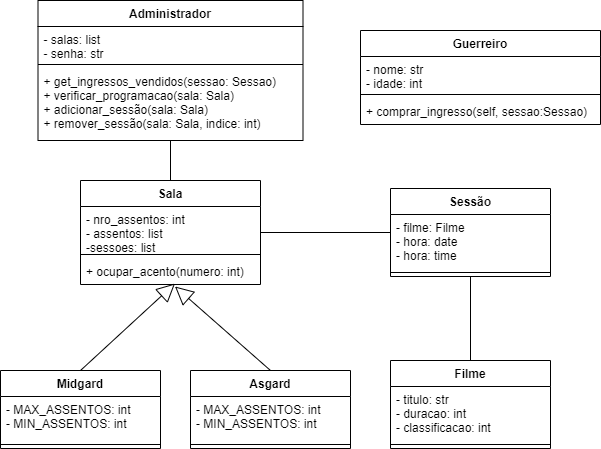
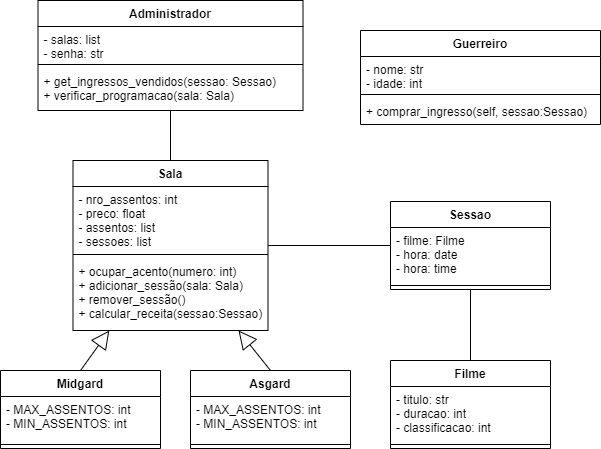
Métodos setter nas classes filhas

diff --git a/Sala.py b/Sala.py
@@ -4,11 +4,12 @@ from Filme import Filme
 class Sala():
     MAX_ASSENTOS = 120
     MIN_ASSENTOS = 15
-    def _init_(self, nro_assentos):
+    def _init_(self, nro_assentos, preco):
         #self._tipo(tipo)
         self._nro_assentos = nro_assentos
-        self.assentos = range(self.nro_assentos)
-        self.sessoes = []
+        self._assentos = range(self.nro_assentos)
+        self._sessoes = []
+        self._preco = preco
         
     '''        
     @property
@@ -33,9 +34,18 @@ class Sala():
         else:
             del self 
         
-        
+    @property 
+    def preco(self):
+        return self._preco
+    
+    @preco.setter
+    def set_preco(self, valor):
+        self._preco = valor
+    
+'''    
     def add_sessao(self, nova_sessao):
         for cada_sessao in self.sessoes:
+'''      
             
         
     '''

diff --git a/Midgard.py b/Midgard.py
@@ -3,5 +3,14 @@ from Sala import Sala
 class Midgard(Sala):
     MAX_ASSENTOS = 120
     MIN_ASSENTOS = 60
-    def __init__(self, nro_assentos):  
-        super().__init__(nro_assentos)
+    def __init__(self, nro_assentos, preco):  
+        super().__init__(nro_assentos, preco)
+        
+    @nro_assentos.setter
+    def set_nro_assentos(self, qtd_assentos):
+        if qtd_assentos >= self.MIN_ASSENTOS and qtd_assentos <= self.MAX_ASSENTOS:
+            self._nro_assentos = qtd_assentos
+            self._assentos = range(self.nro_assentos)
+            return 1
+        else:
+            del self 

diff --git a/Asgard.py b/Asgard.py
@@ -5,3 +5,12 @@ class Asgard(Sala):
     MIN_ASSENTOS = 15
     def __init__(self, nro_assentos):  
         super().__init__(nro_assentos)
+
+    @nro_assentos.setter
+    def set_nro_assentos(self, qtd_assentos):
+        if qtd_assentos >= self.MIN_ASSENTOS and qtd_assentos <= self.MAX_ASSENTOS:
+            self._nro_assentos = qtd_assentos
+            self._assentos = range(self.nro_assentos)
+            return 1
+        else:
+            del self 
